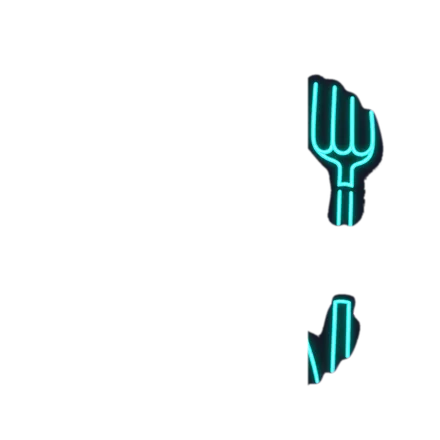
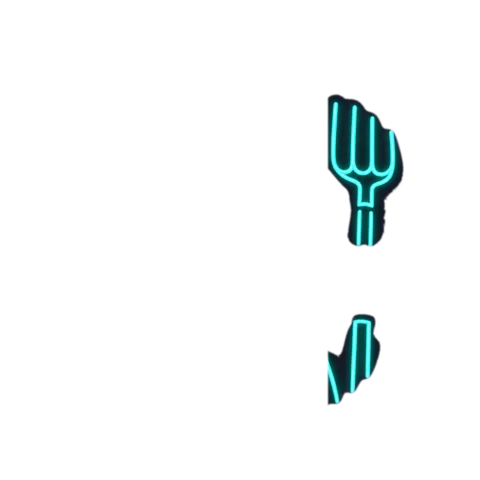
Yard sign: cut the flat band off the ring, CSS glow instead

Changed region(s): [[0.6795, 0.1477, 0.8864, 0.5318], [0.6795, 0.65, 0.8273, 0.8864]]

diff --git a/dashboard.html b/dashboard.html
@@ -12,9 +12,10 @@
 <style>
 /* Yard neon sign: a dim unlit-tube base with each region's lit tubes stacked on top (lighten).
    Each region flickers on its own clock, like a real sign with tired transformers. */
-.yard-sign{position:relative;width:200px;aspect-ratio:1;margin:0 auto 4px;isolation:isolate;flex:none}
+.yard-sign{position:relative;width:218px;aspect-ratio:1;margin:0 auto 4px;isolation:isolate;flex:none}
 .yard-sign img{position:absolute;inset:0;width:100%;height:100%;mix-blend-mode:lighten;pointer-events:none;user-select:none}
 .yard-sign img.base{mix-blend-mode:normal}
+.yard-sign img.ring{filter:drop-shadow(0 0 2px #ff5ec8) drop-shadow(0 0 7px rgba(255,40,170,.85)) drop-shadow(0 0 16px rgba(224,21,127,.55))}
 .yard-sign .cap{animation:ysBuzz 7s 1.2s infinite}
 .yard-sign .fork{animation:ysDrop 11s 3s infinite}
 .yard-sign .ring{animation:ysBlink 13s 5s infinite}
@@ -25,7 +26,7 @@
 @keyframes ysDrop{0%,60%,79%,100%{opacity:1}61%{opacity:.08}62%{opacity:.8}63%{opacity:.05}75%{opacity:.05}76%{opacity:.7}77%{opacity:.15}78%{opacity:1}}
 @keyframes ysBlink{0%,70%,76%,100%{opacity:1}71%{opacity:.1}72%{opacity:1}73.5%{opacity:.15}74.5%{opacity:1}}
 @keyframes ysHum{0%,88%,93%,100%{opacity:1}89%{opacity:.55}90%{opacity:1}91.5%{opacity:.7}}
-@media (max-width:520px){.yard-sign{width:150px}}
+@media (max-width:520px){.yard-sign{width:164px}}
 @media (prefers-reduced-motion:reduce){.yard-sign img{animation:none!important}}
 </style>
 </head>
@@ -99,7 +100,7 @@
       </div></a>`).join('');
 
   const SIGN = '<div class="yard-sign" role="img" aria-label="The Farmyard neon sign">' +
-    ['base', 'body', 'ring', 'snout', 'overall', 'fork', 'cap'].map(n => `<img class="${n}" src="assets/yard-sign/${n}.webp?v=20261126a" alt="" decoding="async">`).join('') + '</div>';
+    ['base', 'body', 'ring', 'snout', 'overall', 'fork', 'cap'].map(n => `<img class="${n}" src="assets/yard-sign/${n}.webp?v=20261126b" alt="" decoding="async">`).join('') + '</div>';
   main.innerHTML = `${SIGN}
     <div style="display:flex; align-items:center; gap:14px; flex-wrap:wrap;">
       <div class="fy-pagehead"><h2 class="t-title-b">The Yard</h2><span class="t-tagline">Home of The Farmyard. Everything on in the yard tonight starts here.</span></div>
